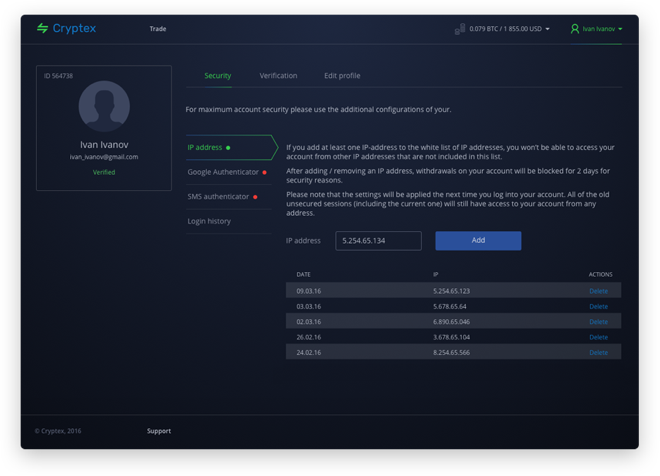
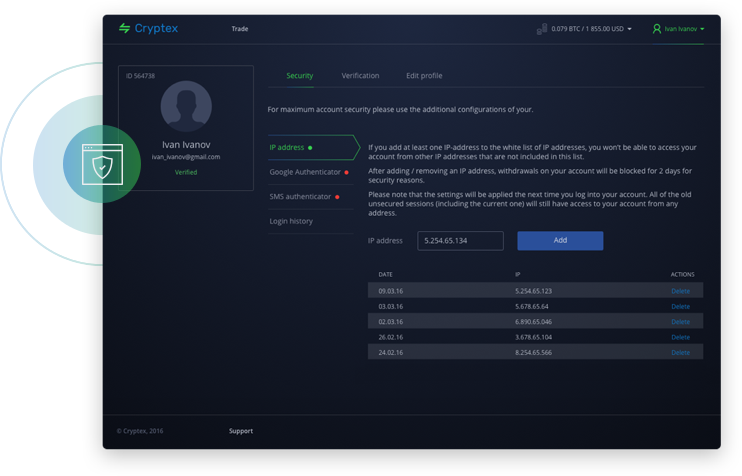
up

diff --git a/common.blocks/section/_theme/section_theme_security.css b/common.blocks/section/_theme/section_theme_security.css
@@ -13,18 +13,26 @@
 
 .section_theme_security .section__image {
     position: absolute;
-    bottom: -80px;
-    right: -60px;
-    width: 660px;
+    bottom: -92px;
+    left: 42%;
+    width: 742px;
     height: 476px;
     background: url(section_theme_security.png) 0 0 no-repeat;
     transition: all .3s ease-out;
 }
 
+.section_theme_security .section__image:before,
+.section_theme_security .section__image:after {
+    position: absolute;
+    background-position: 0 0;
+    background-repeat: no-repeat;
+    content: '';
+}
+
 .section_theme_security .section__info {
     position: relative;
     top: 150px;
-    width: 371px;
+    width: 35%;
     color: #ebebee;
     transition: all .3s ease-out;
 }
@@ -40,10 +48,10 @@
 
     .section_theme_security .section__image {
         top: auto;
-        bottom: -52px;
-        left: 122px;
-        width: 442px;
-        height: 320px;
+        bottom: -48px;
+        left: 68px;
+        width: 490px;
+        height: 314px;
         background-size: 100% auto;
     }
 
